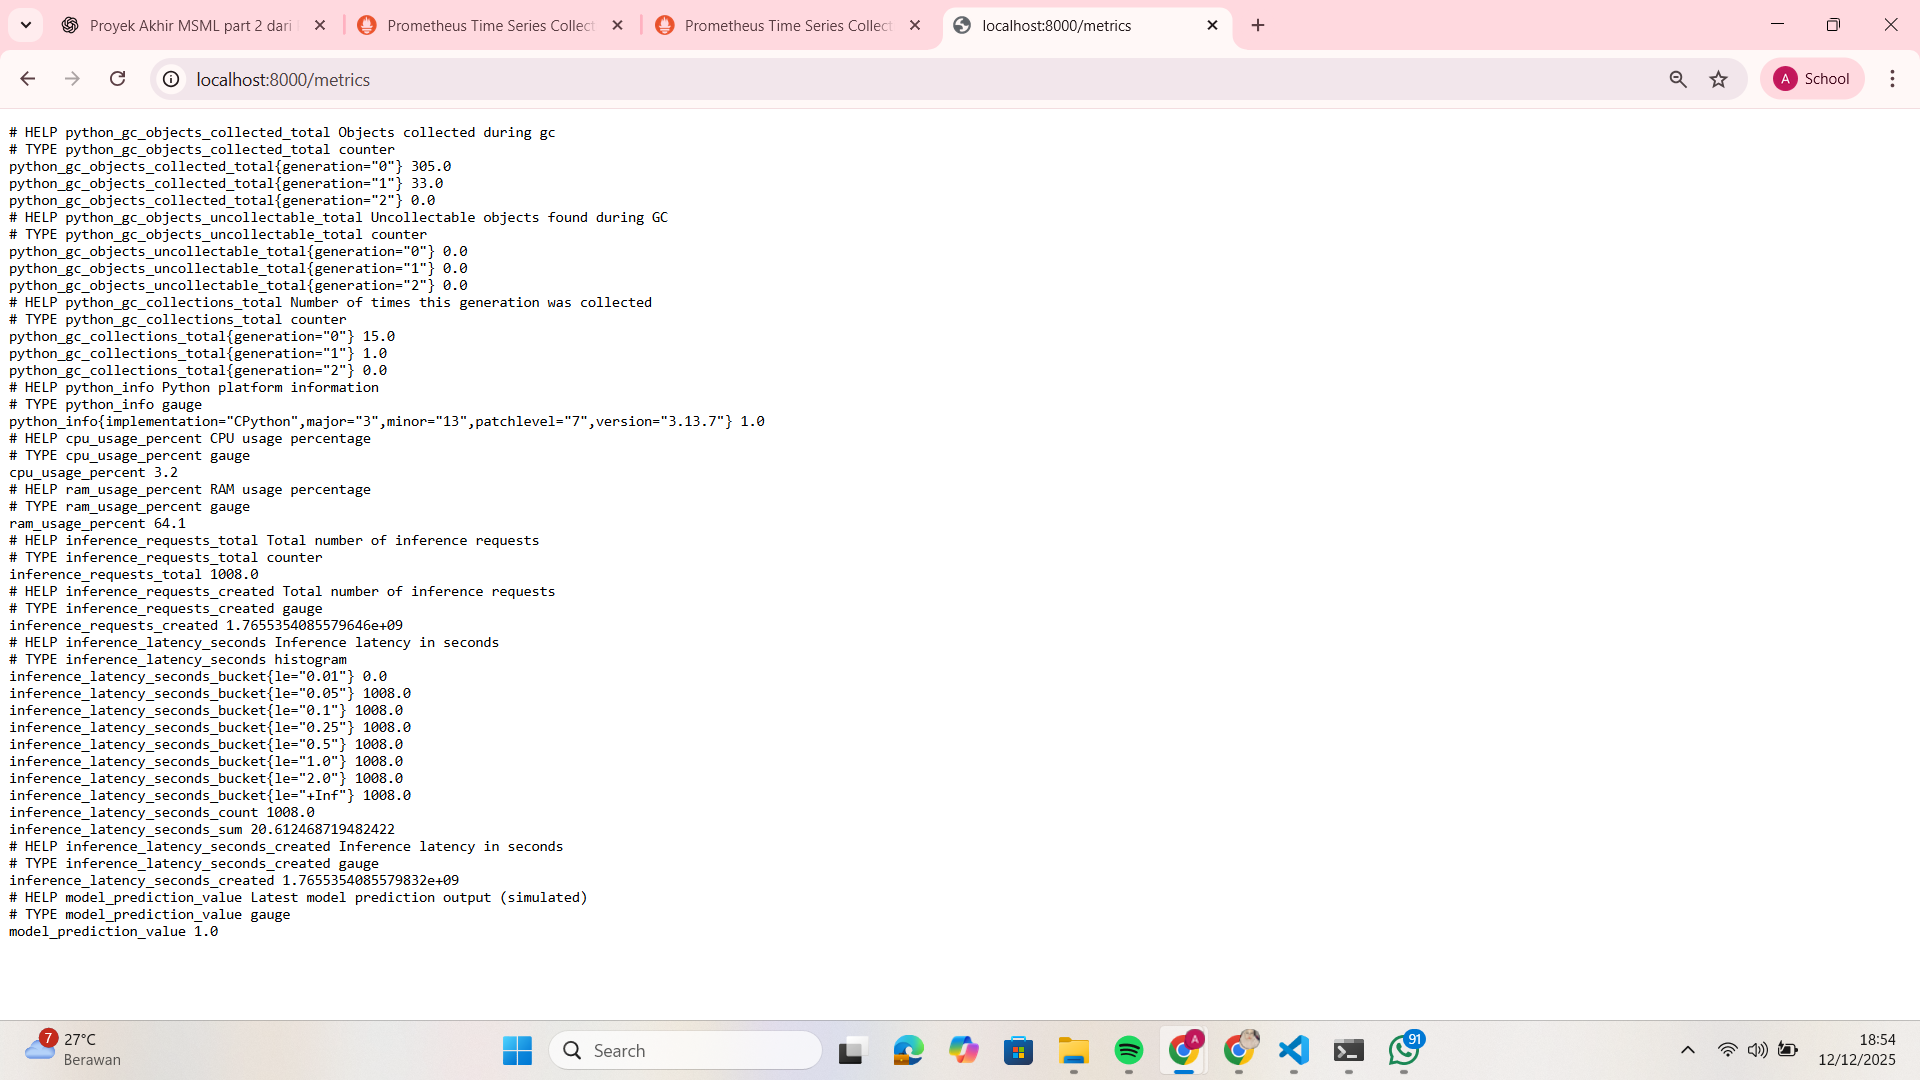
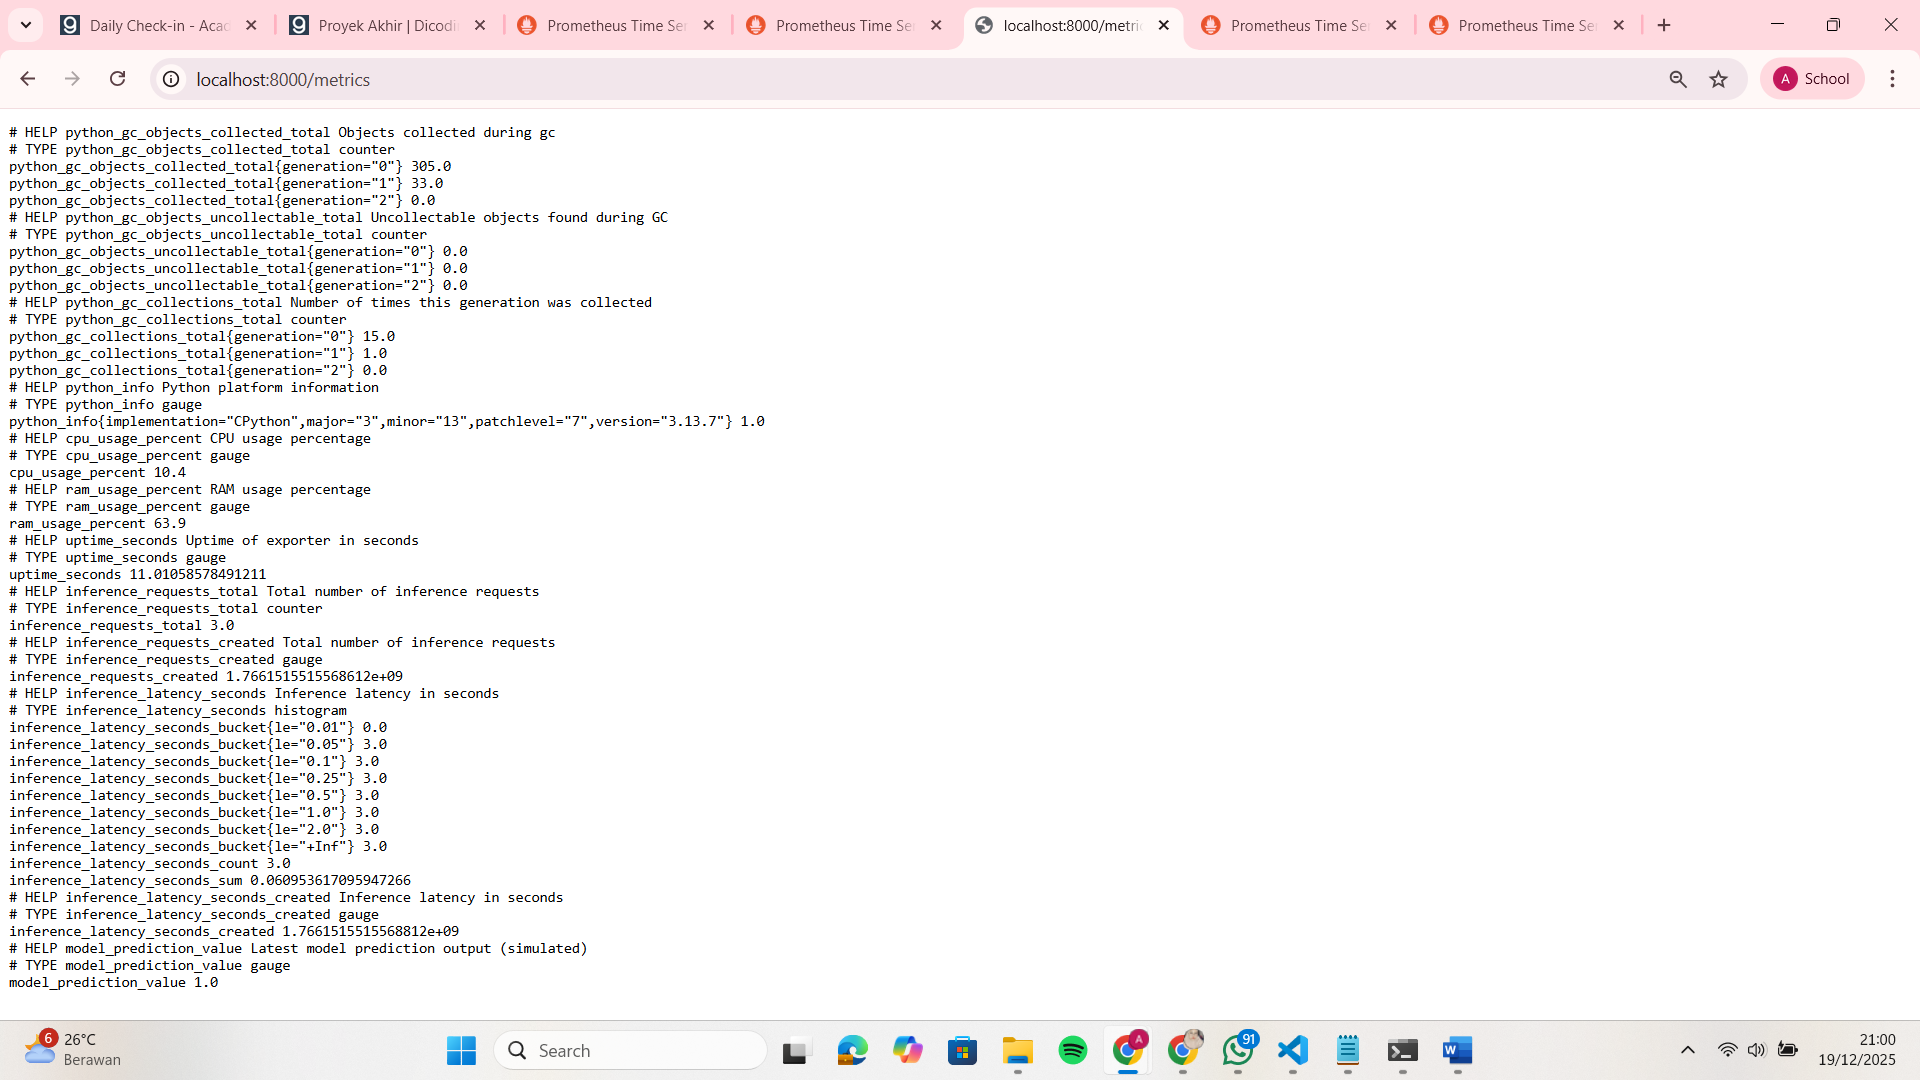
fix(monitoring): add inference metric and update Prometheus exporter

diff --git a/Monitoring dan Logging/prometheus_exporter.py b/Monitoring dan Logging/prometheus_exporter.py
@@ -3,9 +3,7 @@ import psutil
 import time
 import random
 
-# =========================
 # SYSTEM METRICS
-# =========================
 cpu_usage = Gauge(
     "cpu_usage_percent",
     "CPU usage percentage"
@@ -16,9 +14,13 @@ ram_usage = Gauge(
     "RAM usage percentage"
 )
 
-# =========================
+START_TIME = time.time()
+uptime_seconds = Gauge(
+    "uptime_seconds",
+    "Uptime of exporter in seconds"
+)
+
 # INFERENCE METRICS
-# =========================
 inference_requests_total = Counter(
     "inference_requests_total",
     "Total number of inference requests"
@@ -35,14 +37,15 @@ model_prediction_value = Gauge(
     "Latest model prediction output (simulated)"
 )
 
-# =========================
 # METRIC COLLECTOR
-# =========================
 def collect_metrics():
     while True:
         # CPU & RAM
         cpu_usage.set(psutil.cpu_percent())
         ram_usage.set(psutil.virtual_memory().percent)
+
+        # Uptime exporter
+        uptime_seconds.set(time.time() - START_TIME)
 
         # Simulasi inference
         start_time = time.time()
@@ -56,9 +59,7 @@ def collect_metrics():
 
         time.sleep(5)
 
-# =========================
 # MAIN
-# =========================
 if __name__ == "__main__":
     print("Starting Prometheus exporter on port 8000...")
     start_http_server(8000)
